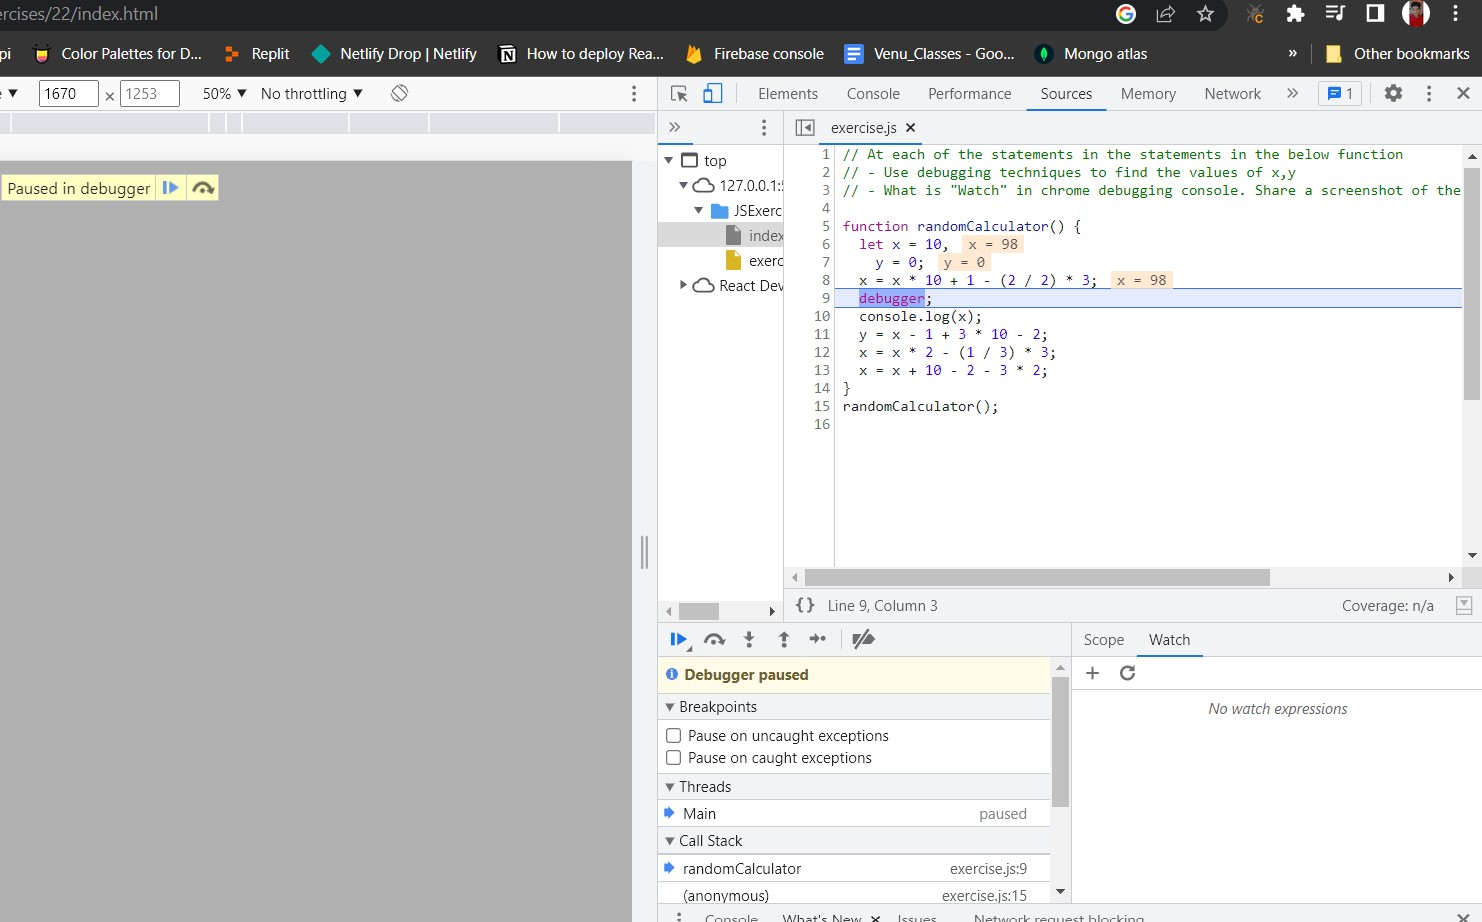
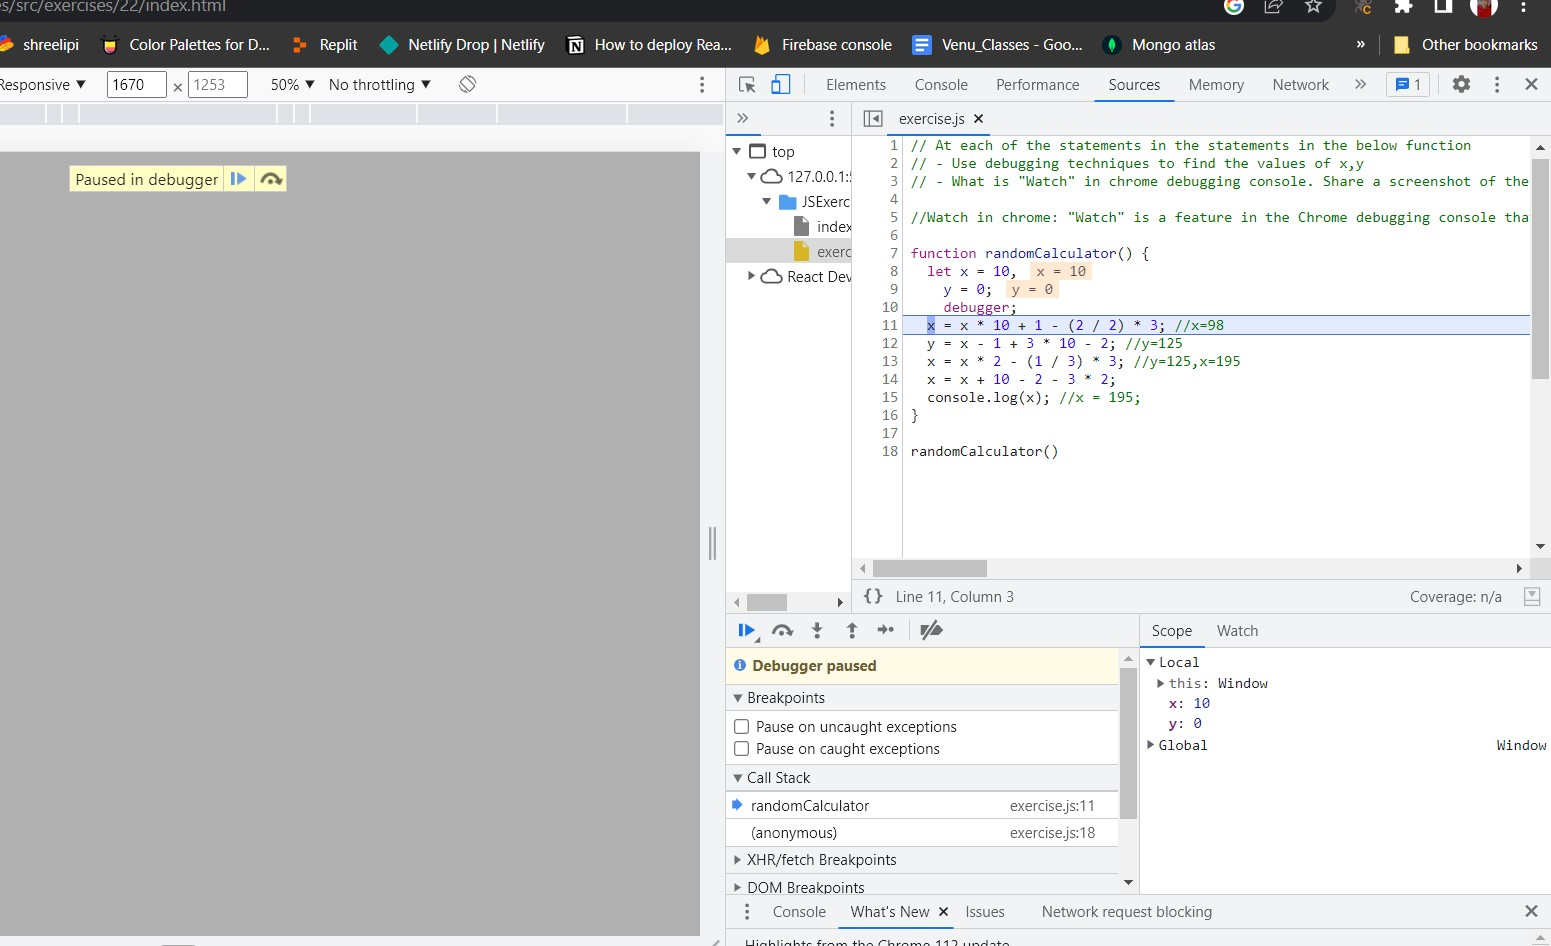
22th exercise updated

diff --git a/src/exercises/22/index.html b/src/exercises/22/index.html
@@ -1,0 +1,13 @@
+<!DOCTYPE html>
+<html lang="en">
+  <head>
+    <meta charset="UTF-8" />
+    <meta http-equiv="X-UA-Compatible" content="IE=edge" />
+    <meta name="viewport" content="width=device-width, initial-scale=1.0" />
+    <title>Document</title>
+  </head>
+  <body>
+    <h1>see output in console</h1>
+  </body>
+</html>
+<script src="./exercise.js"></script>

diff --git a/src/exercises/22/exercise.js b/src/exercises/22/exercise.js
@@ -7,9 +7,12 @@
 function randomCalculator() {
   let x = 10,
     y = 0;
-  x = x * 10 + 1 - (2 / 2) * 3; //x=98,y=0
-  y = x - 1 + 3 * 10 - 2; //y=125,x=98
+    debugger;
+  x = x * 10 + 1 - (2 / 2) * 3; //x=98
+  y = x - 1 + 3 * 10 - 2; //y=125
   x = x * 2 - (1 / 3) * 3; //y=125,x=195
   x = x + 10 - 2 - 3 * 2;
   console.log(x); //x = 195;
 }
+
+randomCalculator() 
